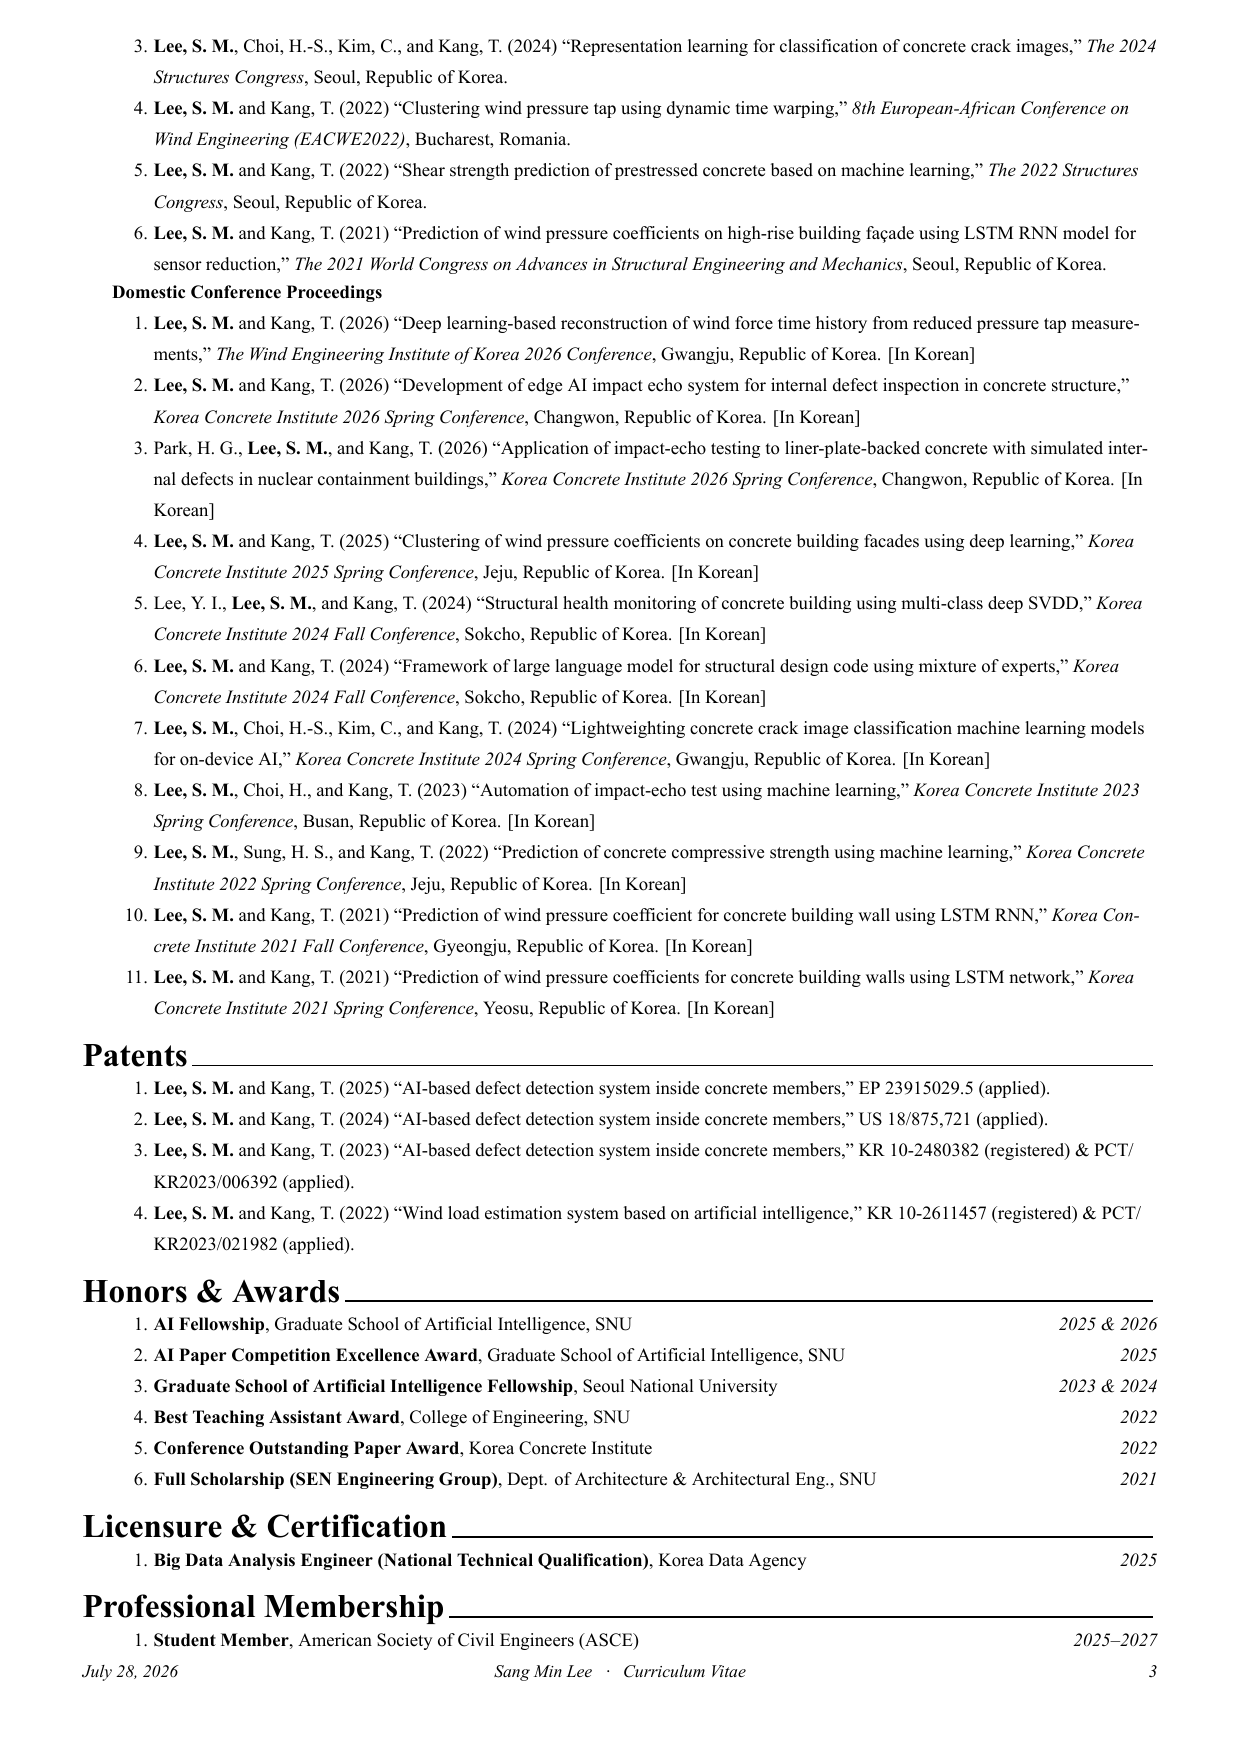
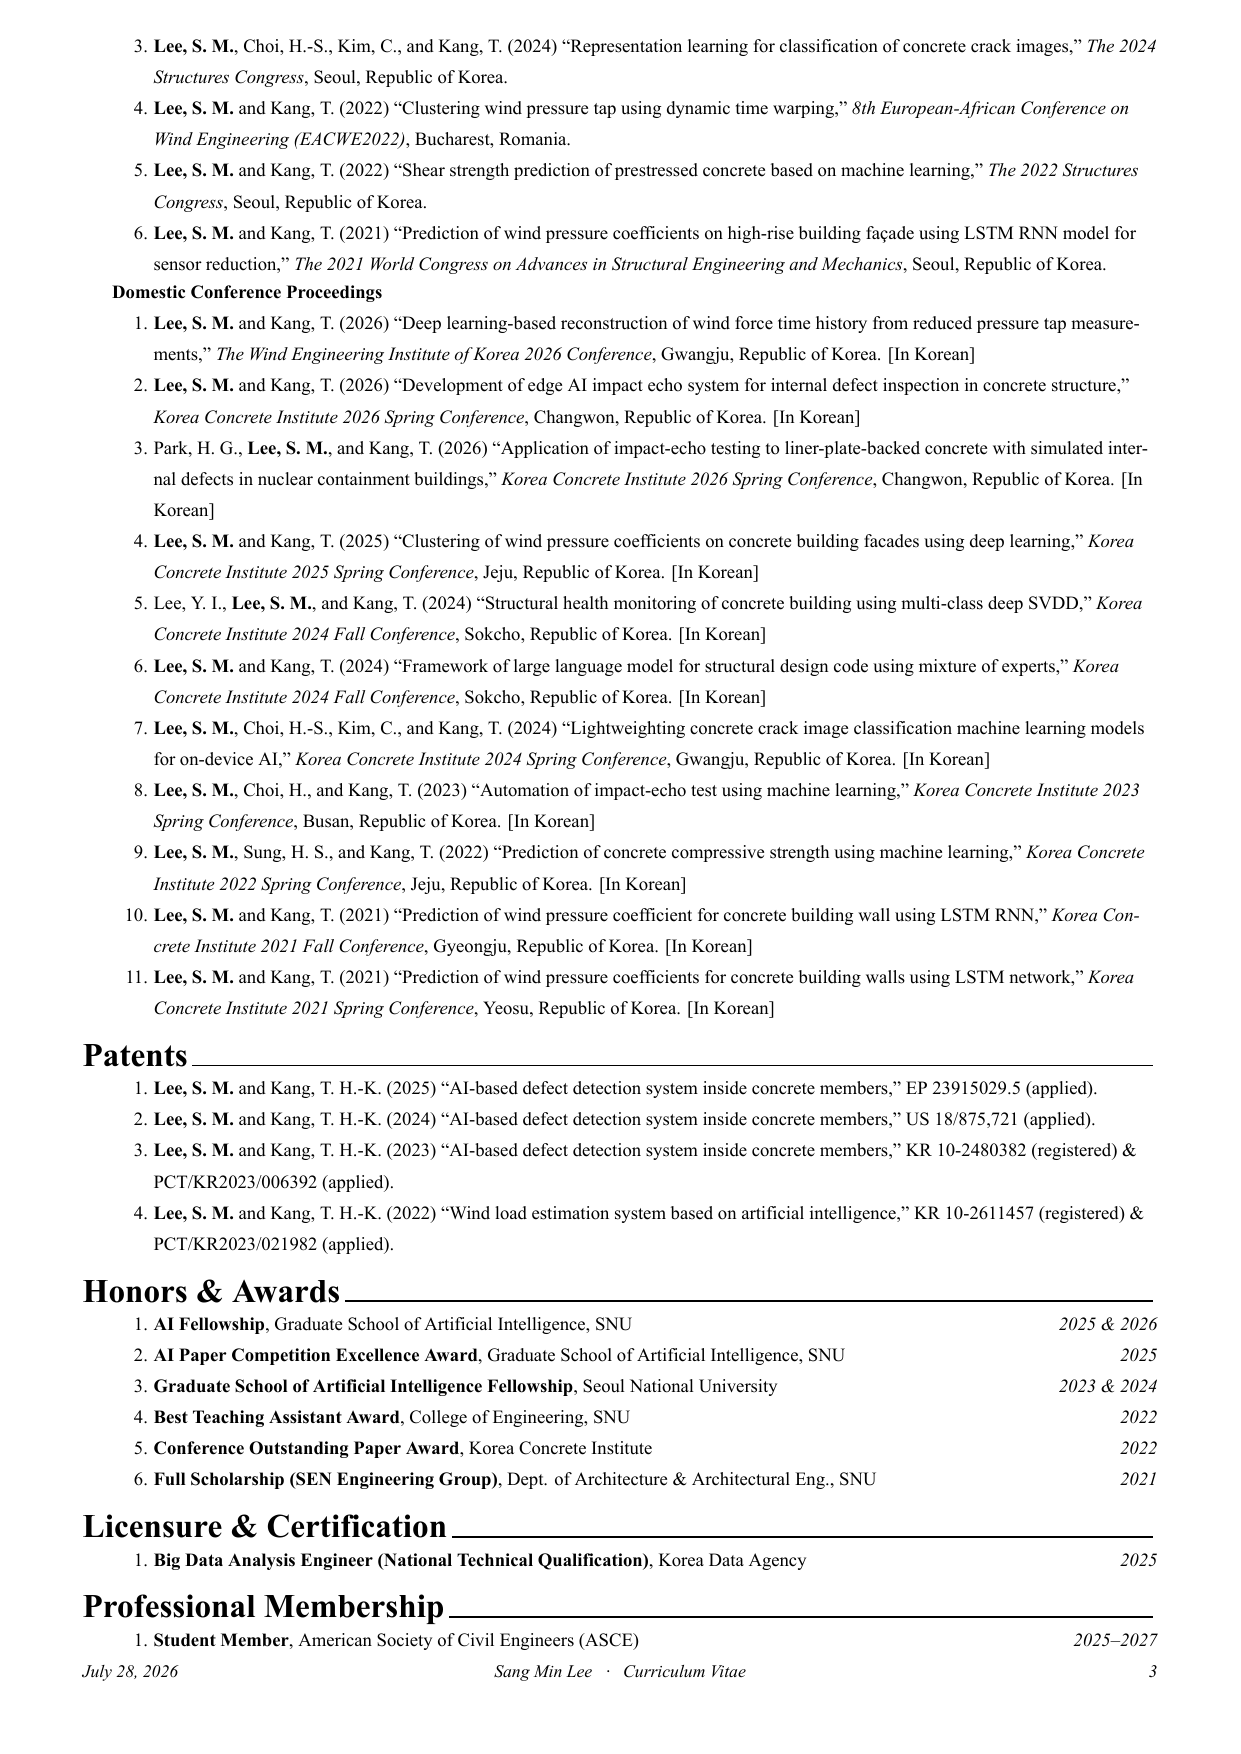
Use full initials (Kang, T. H.-K.) in patent author lists

Changed region(s): [[0.1225, 0.6157, 0.9186, 0.7081], [0.245, 0.7081, 0.2756, 0.7389]]

diff --git a/research-cv/cv/patents.tex b/research-cv/cv/patents.tex
@@ -10,9 +10,9 @@
 \vspace{\acvSectionContentTopSkip}\vspace{-3mm}
 \begin{adjustwidth}{\cvindent}{0pt}
 \begin{pubSubsectionNum}
-    \item \me and Kang, T. (2025) ``AI-based defect detection system inside concrete members,'' EP 23915029.5 (applied).
-    \item \me and Kang, T. (2024) ``AI-based defect detection system inside concrete members,'' US 18/875,721 (applied).
-    \item \me and Kang, T. (2023) ``AI-based defect detection system inside concrete members,'' KR 10-2480382 (registered) \& PCT/\allowbreak KR2023/\allowbreak 006392 (applied).
-    \item \me and Kang, T. (2022) ``Wind load estimation system based on artificial intelligence,'' KR 10-2611457 (registered) \& PCT/\allowbreak KR2023/\allowbreak 021982 (applied).
+    \item \me and Kang, T. H.-K. (2025) ``AI-based defect detection system inside concrete members,'' EP 23915029.5 (applied).
+    \item \me and Kang, T. H.-K. (2024) ``AI-based defect detection system inside concrete members,'' US 18/875,721 (applied).
+    \item \me and Kang, T. H.-K. (2023) ``AI-based defect detection system inside concrete members,'' KR 10-2480382 (registered) \& PCT/\allowbreak KR2023/\allowbreak 006392 (applied).
+    \item \me and Kang, T. H.-K. (2022) ``Wind load estimation system based on artificial intelligence,'' KR 10-2611457 (registered) \& PCT/\allowbreak KR2023/\allowbreak 021982 (applied).
 \end{pubSubsectionNum}
 \end{adjustwidth}
